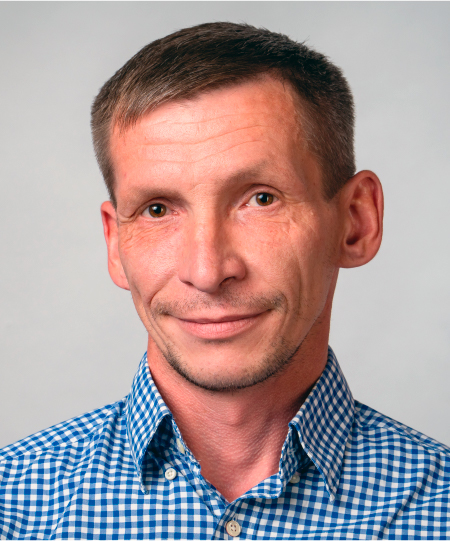
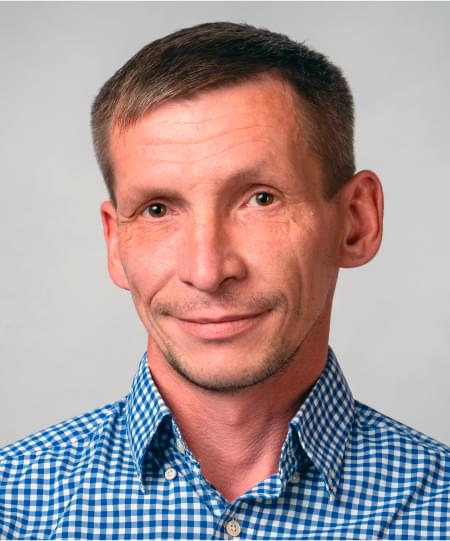
add netlify form & upd projects

Changed region(s): [[0.0, 0.6506, 1.0, 1.0], [0.56, 0.3549, 0.5911, 0.3845]]

diff --git a/src/styles/main.sass b/src/styles/main.sass
@@ -47,13 +47,13 @@ body
 	max-width: 1200px
 	@media only screen and (min-width: $sm)
 		padding: 0 20px
-		max-width: 576px
+		max-width: $sm
 	@media only screen and (min-width: $md)
-		max-width: 768px
+		max-width: $md
 	@media only screen and (min-width: $lg)
-		max-width: 1024px
+		max-width: $lg
 	@media only screen and (min-width: $xl)
-		max-width: 1240px
+		max-width: $xl
 .no-scroll
 	overflow: hidden
 h1,h2,h3,h4,h5,h6
@@ -218,9 +218,10 @@ input, textarea
 	&_red
 		color: $accent
 .desc
-	margin-bottom: 30px
+	margin-bottom: 16px
 	font-family: $M-med
 	@media only screen and (min-width: $lg)
+		margin-bottom: 30px
 		max-width: 460px
 		font-size: 18px
 .text
@@ -269,7 +270,7 @@ input, textarea
 		z-index: 2
 		@media only screen and (min-width: $md)
 			margin-top: 20vh
-			max-width: 400px
+			max-width: 380px
 			min-height: 340px
 			align-items: flex-start
 			text-align: left
@@ -292,6 +293,9 @@ input, textarea
 		margin-top: -9vh
 		position: relative
 		z-index: 2
+		display: none
+		@media only screen and (min-width: $md)
+			display: flex
 		@media only screen and (min-width: $lg)
 			margin-left: 40px
 			display: flex
@@ -316,9 +320,9 @@ input, textarea
 			width: 540px
 			height: 540px
 	&__img
-		display: none
-		width: 280px
-		border-radius: 5px
+		width: 300px
+		border-radius: 2px
+		box-shadow: 2px 4px 9px 2px rgba(0, 0, 0, 0.12)
 		@media only screen and (min-width: $md)
 			display: block
 		@media only screen and (min-width: $lg)
@@ -597,7 +601,7 @@ input, textarea
 				display: none
 	&__img
 		display: none
-		object-fit: cover
+		box-shadow: 1px 1px 5px 1px rgb(0 0 0 / 7%)
 		@media only screen and (min-width: $lg)
 			display: block
 			width: 0

diff --git a/src/pages/contacts.js b/src/pages/contacts.js
@@ -4,11 +4,11 @@ import { Link } from 'gatsby'
 import LayoutContacts from "../components/layout-contacts"
 import Seo from "../components/seo"
 import Social from '../components/social'
-// import Form from '../components/form'
 
 
 const Contacts = () => {
 	const [show, setShow] = useState(false)
+	
 	return (
 		<LayoutContacts>
 			<Seo title="Контакты" />
@@ -26,7 +26,7 @@ const Contacts = () => {
 
 					<div className = {show ? "form-box active" : "form-box"}>
 						<button className="btn-close"  onClick={() => setShow(!show)}>✕</button>
-						<form className="form" action="#" method="post">
+						<form className="form" name="contact" method="POST" data-netlify="true">
 							<div className="form__item">
 								<label className="form__title form__title_none" htmlFor="name">Введите имя:</label>
 								<input className="form__input" id="name" type="text" name="name" placeholder="Ваше имя*" required />
@@ -41,7 +41,7 @@ const Contacts = () => {
 							</div>
 							<div className="form__item form__item_mb">
 								<label className="form__title form__title_file" htmlFor="file"><i className="icon-clip"></i>Прикрепить файл</label>
-								<input className="form__file" id="file" type="file" name="file" accept=".jpg, .pdf, .doc, .docx, .xlsx" multiple />
+								<input className="form__file" id="file" type="file" name="file" accept=".jpg, .pdf, .doc, .docx, .xlsx" />
 							</div>
 							<div className="form__item form__item_mb">
 								<label className="form__title form__title_dfx">

diff --git a/src/components/photo/style.sass b/src/components/photo/style.sass
@@ -3,14 +3,11 @@ $point-lg: 6px
 $point-xl: 7.7px
 
 .photo
-	display: none
 	margin: 0
 	line-height: 1
 	font-size: 9px
 	letter-spacing: 0
 	cursor: default
-	@media only screen and (min-width: $md)
-		display: block
 	@media only screen and (min-width: $lg)
 		font-size: 11px
 	@media only screen and (min-width: $xl)

diff --git a/src/pages/about.js b/src/pages/about.js
@@ -26,7 +26,7 @@ const About = () => {
 						<StaticImage
 							placeholder="dominantColor"
 							className="general__img"
-							src="../images/photo.jpg"
+							src="../images/photo-2.jpg"
 							alt="Фото" />
 					</div>
 				</div>

diff --git a/src/styles/_config.sass b/src/styles/_config.sass
@@ -14,5 +14,5 @@ $transition: 0.3s ease-in-out
 //BREAKPOINTS
 $xl: 1240px
 $lg: 1024px
-$md: 768px
+$md: 808px
 $sm: 576px
